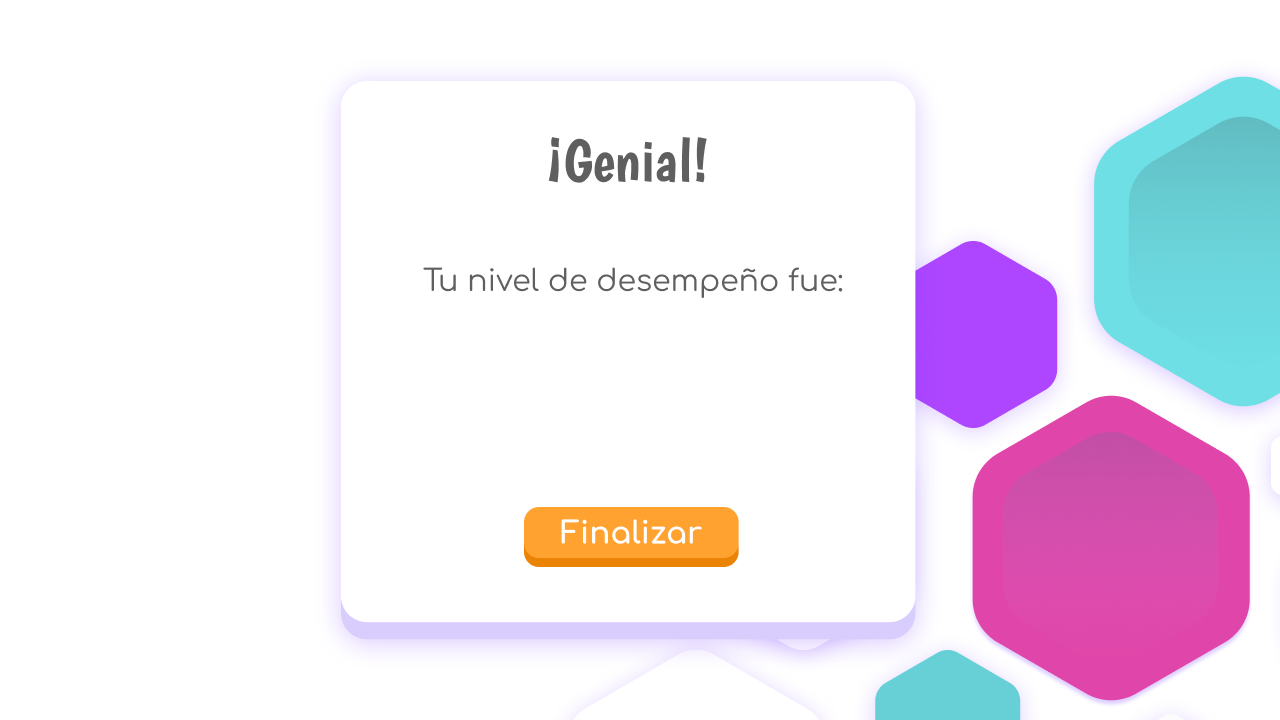
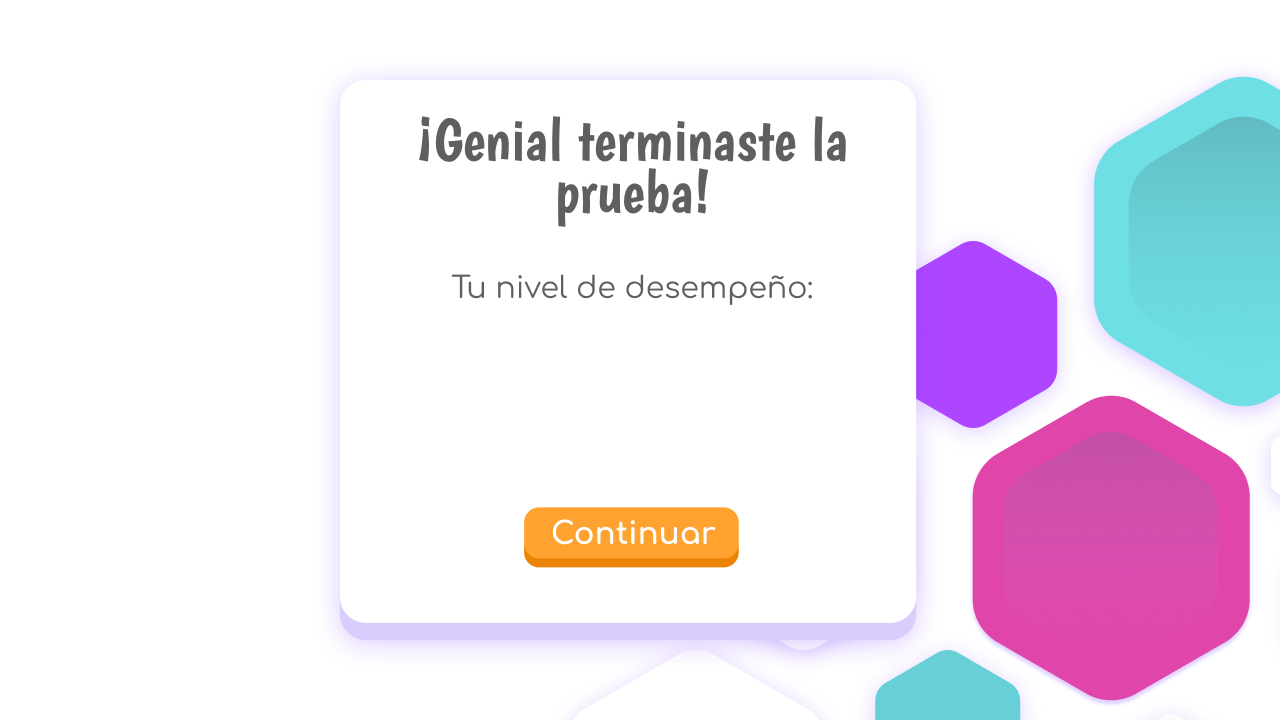
Final Version

Changed region(s): [[0.3125, 0.1528, 0.6875, 0.3056], [0.3125, 0.3667, 0.6562, 0.4278], [0.4375, 0.7028, 0.5625, 0.7639]]

diff --git a/js/index.js b/js/index.js
@@ -40,6 +40,7 @@ let musicOn;
 let mgameOn;
 let badmov;
 let goodmov;
+let timeOut;
 
 let inst1Bg;
 let inst2Bg;
@@ -96,6 +97,7 @@ function setup() {
     bottle = loadImage('images/bottle.png');
     pressedBottle = loadImage('images/pressed_bottle.png');
     currentLevel = 1;
+    timeOut = loadImage('images/menu-inst/timeOut.png');
 
     //----------Will
     menuBg = loadImage('images/menu-inst/menubg.png');
@@ -201,6 +203,7 @@ function draw() {
                     let postStack = new Stack();
                     let height = 1;
 
+
                     while (currentStack.size() > 0) {
                         preStack.push(currentStack.pop());
                     }
@@ -247,7 +250,54 @@ function draw() {
                 text(game.movements, 386, 115);
 
                 if (game.finished) {
-                    background('');
+
+                    let dataLevel = game.currentLevel;
+                    let dataMovements = game.movements + 1;
+                    let dataErrors = game.errors;
+                    let dataTime = game.getTime();
+                    let dataTimeInt = game.currentTime;
+                    let dataFinished = false;
+
+                    if (game.currentLevel == 3) {
+
+                        let data = {
+                            level: dataLevel,
+                            movements: dataMovements,
+                            errors: dataErrors,
+                            time: dataTime,
+                            timeInt: dataTimeInt,
+                            finished: dataFinished,
+                            score: game.score(1, false, game.errors, game.movements + 1, dataTimeInt)
+                        }
+
+                        console.log(data);
+                        gameData.push(data);
+
+
+
+                        screen = 8;
+                        setTimeout(() => {
+                            screen = 5;
+                            currentLevel = 2;
+                            startGame(4);
+                        }, 4000);
+                    } else if (game.currentLevel == 4) {
+
+                        let data = {
+                            level: dataLevel,
+                            movements: dataMovements,
+                            errors: dataErrors,
+                            time: dataTime,
+                            timeInt: dataTimeInt,
+                            finished: dataFinished,
+                            score: game.score(2, false, game.errors, game.movements + 1, dataTimeInt)
+                        }
+
+                        gameData.push(data);
+                        console.log(data);
+
+                        screen = 7;
+                    }
                 }
 
             }
@@ -266,6 +316,16 @@ function draw() {
         case 7:
 
             image(final, 0, 0);
+
+            let score = gameData[0].score + gameData[1].score;
+            finalScore = 2;
+            if (score > 100)
+                finalScore = 1;
+
+            if (score > 150)
+                finalScore = 0;
+
+
             switch (finalScore) {
                 case 0:
 
@@ -279,6 +339,10 @@ function draw() {
                     break;
             }
 
+            break;
+
+        case 8:
+            image(timeOut, 0, 0);
             break;
     }
 
@@ -452,7 +516,11 @@ function mousePressed() {
             //Restart Btn 
 
             if ((mouseX > 1023 && mouseX < 1101) && (mouseY > 77 && mouseY < 140)) {
-
+                if (game.currentLevel == 3) {
+                    startGame(3);
+                } else {
+                    startGame(4);
+                }
             }
 
 
@@ -519,6 +587,7 @@ function mousePressed() {
                                             let dataErrors = game.errors;
                                             let dataTime = game.getTime();
                                             let dataTimeInt = game.currentTime;
+                                            let dataFinished = true;
 
 
                                             let data = {
@@ -526,10 +595,13 @@ function mousePressed() {
                                                 movements: dataMovements,
                                                 errors: dataErrors,
                                                 time: dataTime,
-                                                timeInt: dataTimeInt
+                                                timeInt: dataTimeInt,
+                                                finished: dataFinished,
+                                                score: game.score(currentLevel, true, game.errors, game.movements + 1, dataTimeInt)
                                             }
 
-                                            gameData.push(data)
+                                            gameData.push(data);
+                                            console.log(data);
 
                                             if (currentLevel == 1) {
                                                 screen = 6;

diff --git a/js/game.js b/js/game.js
@@ -151,7 +151,7 @@ class Game {
         for (let i = 0; i < this.currentGame.length; i++) {
             m += ' ' + this.currentGame[i].solved;
         }
-        console.log(this.a + ' ' + m);
+
 
         for (let i = 0; i < this.currentGame.length; i++) {
 
@@ -169,9 +169,62 @@ class Game {
 
 
 
-    score = (level) => {
+    score = (level, finished, errors, movements, timeInt) => {
+
+        let totalScore = 0;
+
+        console.log('level: ' + level);
+        console.log('finished: ' + finished);
+        console.log('errors: ' + errors);
+        console.log('movements: ' + movements);
+        console.log('segundos: ' + timeInt);
+
+        if (level == 1) {
+
+            if (finished) {
+                totalScore = totalScore + 30;
+            }
+
+            totalScore = totalScore - errors;
+
+            if (movements > 17)
+                movements = 17;
+            totalScore = totalScore + (2 * movements);
+
+
+            let t = 120 - timeInt;
+            if (t < 60) {
+                totalScore = totalScore + 16;
+            }
+
+            console.log('score: ' + totalScore);
+            return totalScore;
+
+        } else if (level == 2) {
+
+            if (finished) {
+                totalScore = totalScore + 24;
+            }
+
+            totalScore = totalScore - errors;
+            if (movements > 38)
+                movements = 38;
+            totalScore = totalScore + (2 * movements);
+
+            let t = 300 - timeInt;
+            if (t < 120) {
+                totalScore = totalScore + 20;
+            }
+
+            console.log('score: ' + totalScore);
+            return totalScore;
+
+
+        }
 
 
     }
+
+
 
 }
